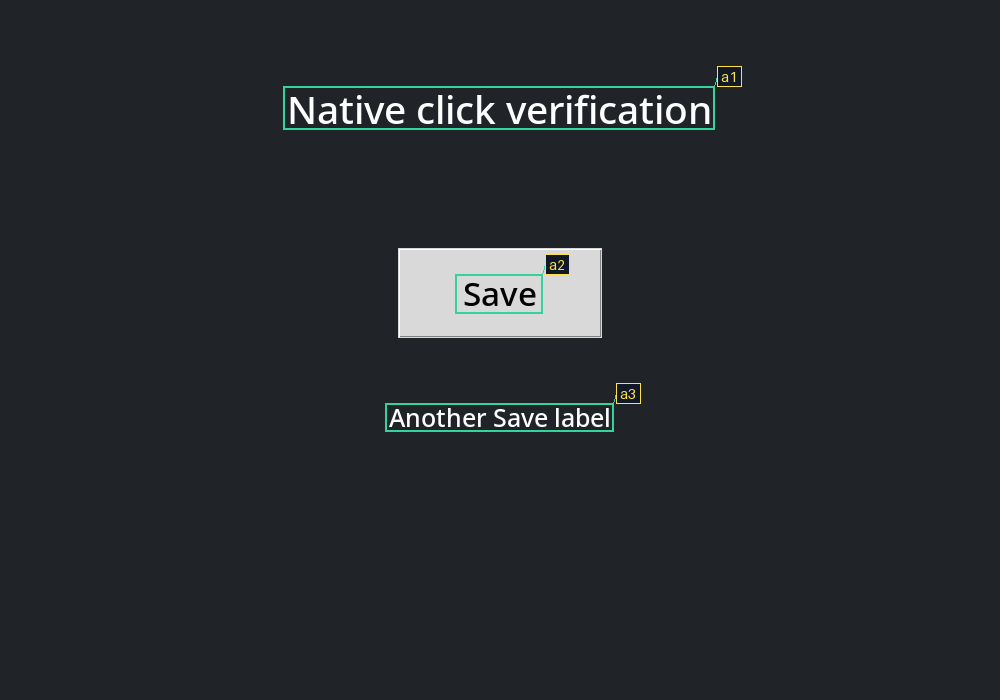
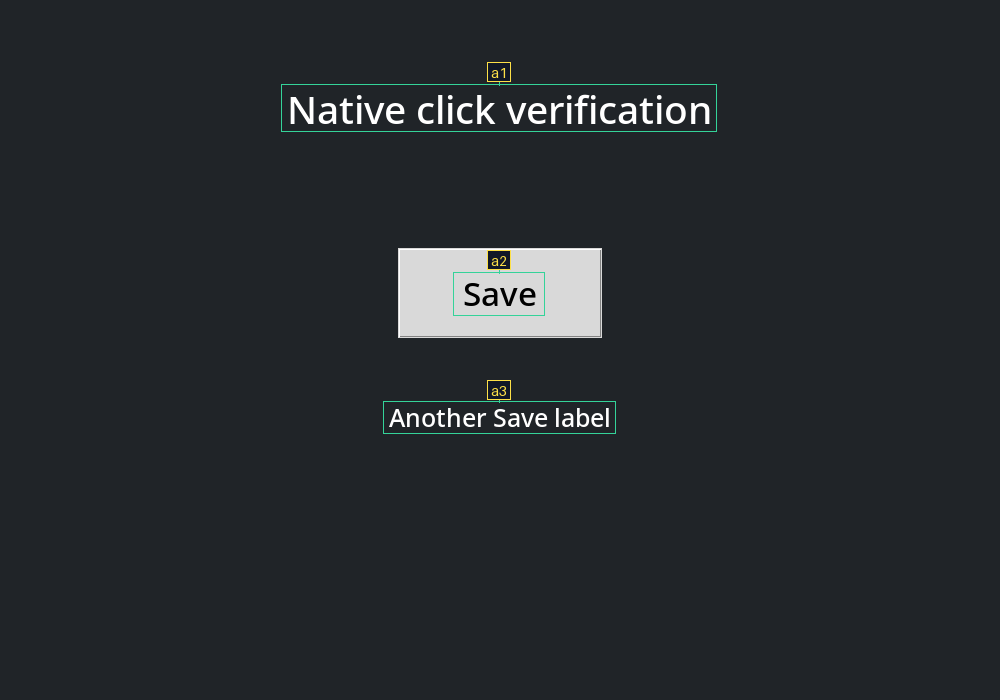
[agent] Keep OCR badges and connectors off detected text
Reject label collisions, search nearby free space, and place overflow labels in a gutter while preserving source coordinates and every detected text pixel. Add dense-layout and gutter contract checks.

diff --git a/scripts/ocr_worker.py b/scripts/ocr_worker.py
@@ -29,47 +29,116 @@ def overlap(a, b):
     )
 
 
+def badge_layout(size, targets, widths):
+    image_width, image_height = size
+    height, gap = 20, 4
+    protected = [
+        (x1 - 2, y1 - 2, x2 + 2, y2 + 2)
+        for x1, y1, x2, y2 in (item["bounds"] for item in targets)
+    ]
+    occupied = []
+    badges = []
+    overflow = 0
+    rows = max(1, (image_height - 16) // (height + gap))
+    column_width = max(widths, default=0) + 16
+    for target, width in zip(targets, widths, strict=True):
+        x1, y1, x2, y2 = target["bounds"]
+        cx, cy = (x1 + x2) // 2, (y1 + y2) // 2
+        anchors = [
+            (x, y)
+            for x in (x1, cx - width // 2, x2 - width)
+            for y in (y1 - height - gap, y2 + gap)
+        ] + [(x1 - width - gap, cy - height // 2), (x2 + gap, cy - height // 2)]
+        candidates = set()
+        if width <= image_width and height <= image_height:
+            for offset in range(0, 65, 8):
+                for dx, dy in ((offset, 0), (-offset, 0), (0, offset), (0, -offset)):
+                    for x, y in anchors:
+                        x = max(0, min(x + dx, image_width - width))
+                        y = max(0, min(y + dy, image_height - height))
+                        candidates.add((x, y, x + width, y + height))
+
+        def distance(box, bounds=target["bounds"]):
+            x1, y1, x2, y2 = bounds
+            cx, cy = (x1 + x2) // 2, (y1 + y2) // 2
+            horizontal = max(x1 - box[2], box[0] - x2, 0)
+            vertical = max(y1 - box[3], box[1] - y2, 0)
+            return (
+                horizontal**2 + vertical**2,
+                ((box[0] + box[2]) / 2 - cx) ** 2 + ((box[1] + box[3]) / 2 - cy) ** 2,
+                box,
+            )
+
+        badge = next(
+            (
+                box
+                for box in sorted(candidates, key=distance)
+                if not any(overlap(box, obstacle) for obstacle in protected + occupied)
+            ),
+            None,
+        )
+        if badge is None:
+            # Dense screens still need every reference, without covering the UI.
+            column, row = divmod(overflow, rows)
+            x, y = image_width + 8 + column * column_width, 8 + row * (height + gap)
+            badge = (x, y, x + width, y + height)
+            overflow += 1
+        badges.append(badge)
+        left, top, right, bottom = badge
+        occupied.append((left - 2, top - 2, right + 2, bottom + 2))
+    columns = math.ceil(overflow / rows)
+    return badges, (
+        image_width + columns * column_width,
+        max(image_height, height + 16) if overflow else image_height,
+    )
+
+
 def annotate(image, targets, output):
-    draw = ImageDraw.Draw(image)
     try:
         font = ImageFont.truetype("DejaVuSans-Bold.ttf", 14)
     except OSError:
         font = ImageFont.load_default(size=14)
-    occupied = []
-    text_bounds = [item["bounds"] for item in targets]
-    for target in targets:
+    measuring = ImageDraw.Draw(image)
+    widths = [
+        math.ceil(measuring.textlength(item["ref"], font=font)) + 8 for item in targets
+    ]
+    badges, size = badge_layout(image.size, targets, widths)
+    canvas = Image.new("RGB", size, "#111827")
+    canvas.paste(image)
+    draw = ImageDraw.Draw(canvas)
+    for target, badge in zip(targets, badges, strict=True):
         x1, y1, x2, y2 = target["bounds"]
-        label = target["ref"]
-        width = math.ceil(draw.textlength(label, font=font)) + 8
-        height = 20
-        candidates = []
-        for x, y in (
-            (x2 + 2, y1 - height),
-            (x1, y1 - height),
-            (x2 + 2, y1),
-            (x1, y2 + 2),
-        ):
-            x = max(0, min(x, image.width - width))
-            y = max(0, min(y, image.height - height))
-            candidate = (x, y, x + width, y + height)
-            penalty = sum(overlap(candidate, box) for box in text_bounds)
-            penalty += 3 * sum(overlap(candidate, box) for box in occupied)
-            candidates.append((penalty, candidate))
-        badge = min(candidates, key=lambda candidate: candidate[0])[1]
-        occupied.append(badge)
-        draw.rectangle((x1, y1, x2 - 1, y2 - 1), outline="#34d399", width=2)
+        draw.rectangle((x1 - 2, y1 - 2, x2 + 1, y2 + 1), outline="#34d399", width=1)
         draw.line(
-            (x2 - 1, y1, badge[0], badge[1] + height / 2), fill="#34d399", width=1
+            (
+                (x1 + x2) // 2,
+                (y1 + y2) // 2,
+                (badge[0] + badge[2]) // 2,
+                (badge[1] + badge[3]) // 2,
+            ),
+            fill="#34d399",
+            width=1,
         )
-        draw.rectangle(badge, fill="#111827", outline="#fde047", width=1)
-        draw.text((badge[0] + 4, badge[1] + 2), label, font=font, fill="#fde047")
+    # Connectors and neighbouring outlines must not alter any detected text.
+    for target in targets:
+        bounds = target["bounds"]
+        canvas.paste(image.crop(bounds), bounds[:2])
+    for target, badge in zip(targets, badges, strict=True):
+        left, top, right, bottom = badge
+        draw.rectangle(
+            (left, top, right - 1, bottom - 1),
+            fill="#111827",
+            outline="#fde047",
+            width=1,
+        )
+        draw.text((left + 4, top + 2), target["ref"], font=font, fill="#fde047")
     # Publish only a complete preview; screenshots retain the caller's file format.
     with tempfile.NamedTemporaryFile(
         dir=output.parent, suffix=output.suffix, delete=False
     ) as temporary:
         path = Path(temporary.name)
     try:
-        image.save(path)
+        canvas.save(path)
         path.replace(output)
     finally:
         path.unlink(missing_ok=True)

diff --git a/checks/ocr_contracts.py b/checks/ocr_contracts.py
@@ -2,6 +2,7 @@
 
 import sys
 import tempfile
+from itertools import combinations
 from pathlib import Path
 
 import numpy as np
@@ -10,7 +11,7 @@ from rapidocr.ch_ppocr_det.utils import TextDetOutput
 from rapidocr.utils.output import RapidOCROutput
 
 sys.path.insert(0, str(Path(__file__).resolve().parents[1] / "scripts"))
-from ocr_worker import recognize, verify
+from ocr_worker import annotate, badge_layout, overlap, recognize, verify
 
 with tempfile.TemporaryDirectory(prefix="computer-use-contract-") as temporary:
     root = Path(temporary)
@@ -45,3 +46,59 @@ with tempfile.TemporaryDirectory(prefix="computer-use-contract-") as temporary:
         image.resize((300, 100)).save(current)
         assert not verify(probe)["matches"]
     print("PASS complete SDK result, exact pixel comparison and resize rejection")
+
+    dense = Image.new("RGB", (200, 100), "#bacdef")
+    targets = [
+        {"ref": f"a{index + 1}", "bounds": [0, y, 200, y + 14]}
+        for index, y in enumerate(range(0, 96, 16))
+    ]
+    annotate(dense.copy(), targets, output)
+    with Image.open(output) as rendered:
+        for target in targets:
+            bounds = target["bounds"]
+            assert rendered.crop(bounds).tobytes() == dense.crop(bounds).tobytes(), (
+                "Annotation obscured detected text",
+                target,
+            )
+        assert rendered.width > dense.width, "Crowded labels need a separate gutter"
+    print("PASS dense annotations preserve every detected text pixel")
+
+    for size, bounds in (
+        ((200, 100), [target["bounds"] for target in targets]),
+        ((10, 10), [[0, 0, 10, 10]] * 8),
+        ((200, 100), [[20, 40, 80, 60]]),
+        ((200, 100), []),
+    ):
+        cases = [{"bounds": box} for box in bounds]
+        badges, canvas_size = badge_layout(size, cases, [30] * len(cases))
+        assert len(badges) == len(cases)
+        for badge in badges:
+            assert 0 <= badge[0] < badge[2] <= canvas_size[0]
+            assert 0 <= badge[1] < badge[3] <= canvas_size[1]
+            assert not any(overlap(badge, box) for box in bounds)
+        assert not any(overlap(a, b) for a, b in combinations(badges, 2))
+        if len(cases) <= 1:
+            assert canvas_size == size, "Uncrowded images should keep their size"
+    print("PASS badge separation, edge clipping, tiny images and gutter overflow")
+
+    dense.save(source)
+    dense_boxes = np.array(
+        [
+            [[x1, y1], [x2, y1], [x2, y2], [x1, y2]]
+            for x1, y1, x2, y2 in (target["bounds"] for target in targets)
+        ],
+        dtype=np.float32,
+    )
+    complete = RapidOCROutput(
+        boxes=dense_boxes,
+        txts=("Crowded",) * len(targets),
+        scores=(0.99,) * len(targets),
+    )
+    result = recognize(lambda _: complete, request)
+    assert result["size"] == [200, 100]
+    assert [item["bounds"] for item in result["targets"]] == [
+        item["bounds"] for item in targets
+    ]
+    with Image.open(output) as rendered:
+        assert rendered.width > result["size"][0]
+    print("PASS gutter leaves original target coordinates and source size intact")

diff --git a/README.md b/README.md
@@ -36,6 +36,8 @@ Screenshots print only the image path. The recognized text and geometry stay in 
 
 References advance through `@a1`, `@b1`, …, `@g1`, then wrap. A new capture replaces the reference map; all `input`, `exec`, launch/browser, clipboard-set, and click operations invalidate it. Queries do not invalidate it and return cached coordinates; they do not recheck live pixels. Use a fresh screenshot when the app may have changed. A click checks the current pixels within its text box against the captured pixels before sending native input. A changed target rejects the click. Repeated letters are intentionally short visual hints, not globally unique capture IDs: always use the latest image, including after wraparound. Pixels alone cannot distinguish two logically different controls with identical appearance.
 
+Badges avoid all detected text and other badges. On crowded screens, a gutter is added to the right for labels that cannot fit nearby. The source image stays at its original scale and top-left position; gutter labels still refer to their text boxes in the original screen. Connectors and outlines preserve the original pixels inside detected text boxes.
+
 For unannotated images or targets that OCR misses:
 
 ```bash

diff --git a/SKILL.md b/SKILL.md
@@ -44,6 +44,8 @@ Read the letter-number badge on the current image before choosing a reference. `
 
 After clicking, typing, scrolling, launching an app, or another `input`/`exec` command, take a fresh screenshot before using references again. Each annotated capture advances its letter (`a`, `b`, …, `g`, then `a`); only the current capture's references are accepted. Letters repeat after seven captures, so always choose from the latest image. A background redraw within the target box also rejects a click and requires recapture.
 
+On crowded screens, badges may use an added gutter on the right. The original screen stays at its original scale and top-left position. Gutter pixels are not desktop coordinates; use `query` or `click` with the badge reference to target its original text box.
+
 For unannotated inspection, use `screenshot ... --raw`; this clears current references. For icons and other uncovered targets, inspect the current screenshot and use native coordinates below. Window IDs come from the session's window list.
 
 ```bash
